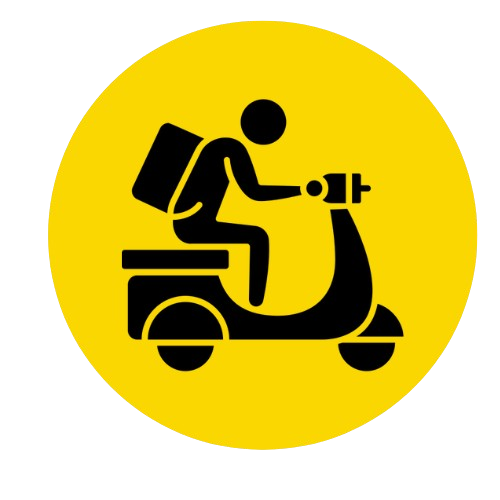
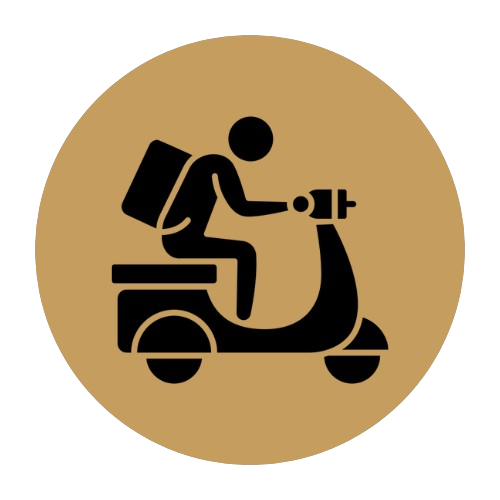
feat: update background color of feature section images on index page

diff --git a/Frontend/assets/js/feature.js b/Frontend/assets/js/feature.js
@@ -41,7 +41,7 @@ class featureSection extends HTMLElement {
         <div class="row">
           <div class="col-sm-3 mb-sm-0">
             <div class="card">
-              <img class="card-image" src="./assets/images/feature-delivery.png" alt="Delivery" />
+              <img class="card-image" src="./assets/images/feature-24h-service.png" alt="24h-service" />
               <div class="card-body">
                 <h5 class="card-title">24/7 Service</h5>
                
@@ -61,7 +61,7 @@ class featureSection extends HTMLElement {
             <div class="card">
               <img class="card-image" src="./assets/images/feature-delivery.png" alt="Delivery" />
               <div class="card-body">
-                <h5 class="card-title">Fast & Fresh Delivery</h5>
+                <h5 class="card-title">Fast Delivery</h5>
                 
               </div>
             </div>
